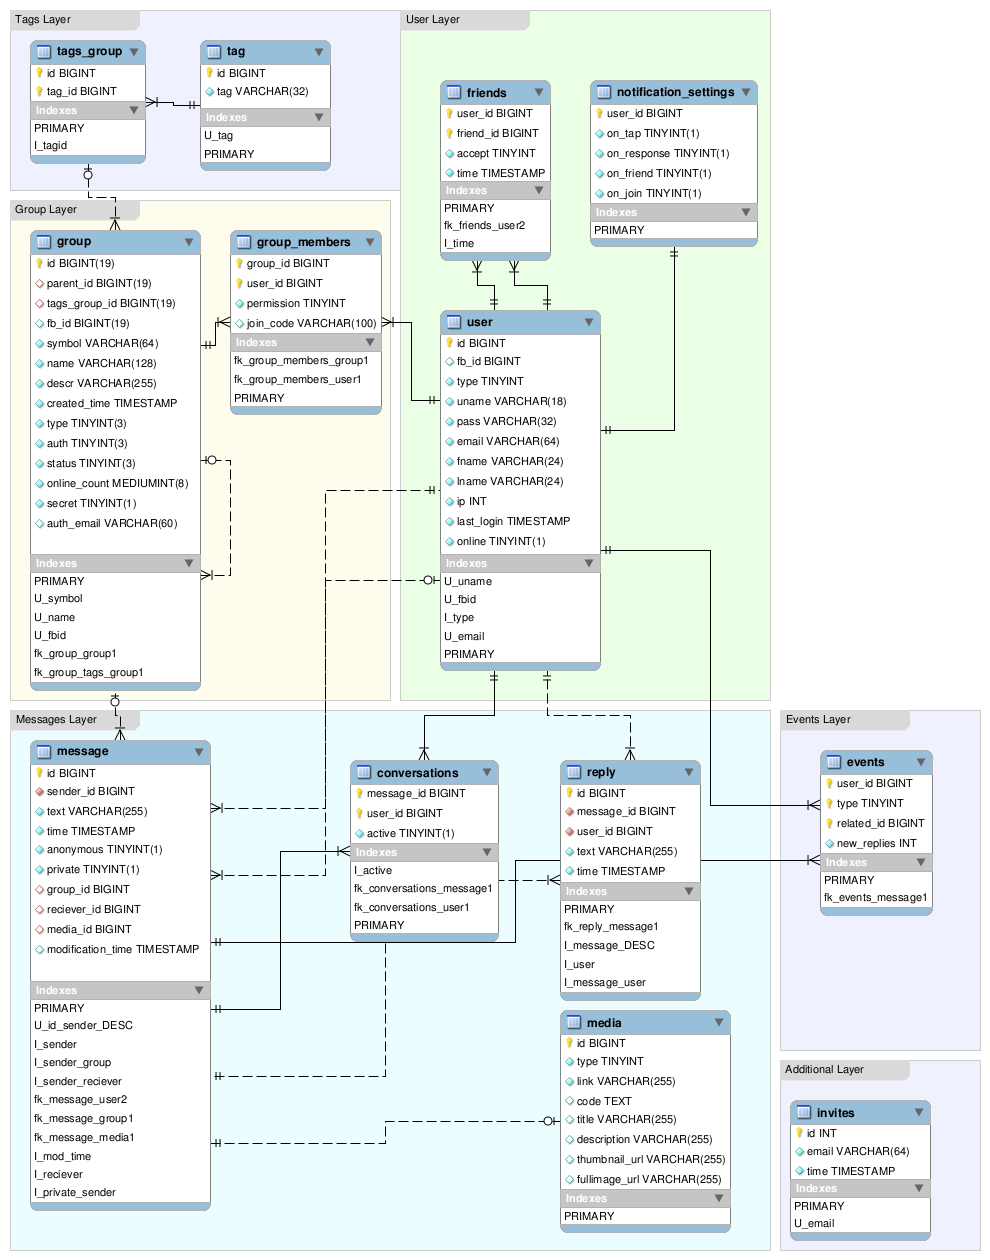
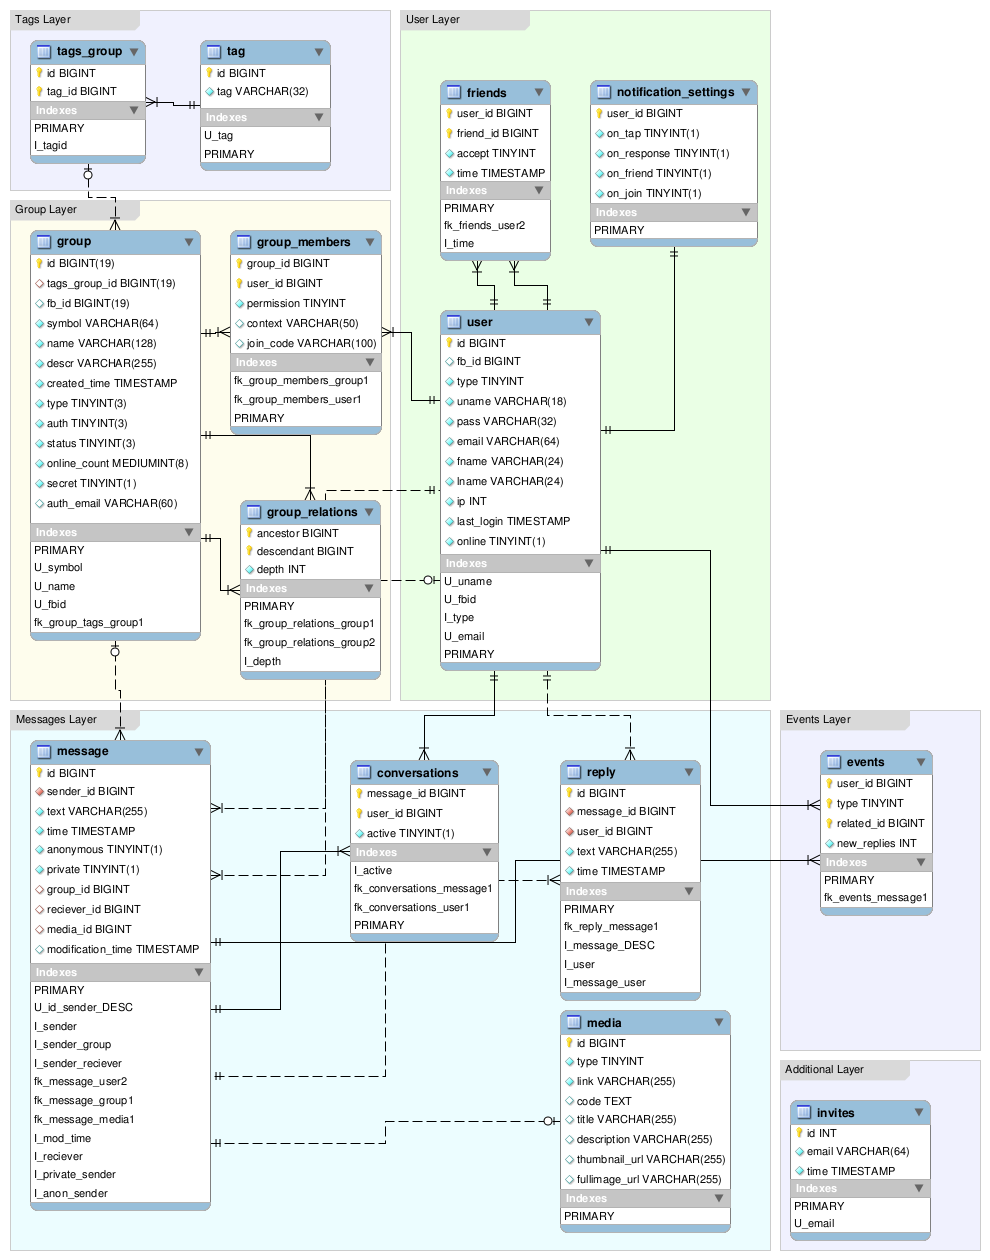
Group tree backend - relations table, searching. Little fix for main seach

Changed region(s): [[0.2121, 0.2476, 0.3939, 0.5571], [0.0303, 0.2167, 0.2121, 0.5571], [0.0303, 0.7429, 0.2121, 0.9595]]

diff --git a/modules/GroupRelations.php b/modules/GroupRelations.php
@@ -1,0 +1,119 @@
+<?php
+
+/*
+    Not actually a model, a useable piece of code related to Groups
+
+    We implementing here Clojure table with cached depth
+
+    See: http://www.slideshare.net/billkarwin/models-for-hierarchical-data?from=fblanding [starting slide 33]
+*/
+class GroupRelations {
+    const table = 'group_relations';
+
+    /*
+        Initialize newly created groups in relations table
+
+        @param Group|GroupList $group
+    */
+    public static function init($group) {
+        if (!($group instanceof Group || $group instanceof GroupsList))
+            throw new InvalidArgumentException('$group should be instance of Group or GroupsList');
+
+        $db = DB::getInstance();
+        if ($group instanceof Group)
+            $group = new GroupsList(array($group->id => $group));
+
+        $db->startTransaction();
+        try {
+            foreach ($group as $g)
+                $db->lazyInsert(self::table,
+                    array('ancestor'   => $group->id,
+                          'descendant' => $group->id,
+                          'depth'      => 0));
+
+            $db->commitLazyInsert(self::table);
+        } catch (SQLException $e) {
+            $db->rollback();
+            throw $e;
+        }
+
+        $db->commit();
+    }
+
+    /*
+        Making parent relations between groups
+    */
+    public static function link(Group $children, Group $parent) {
+        self::unlink($children);
+        self::updateDepth($children, $parent);
+
+        $query = "INSERT INTO `".self::table."` (ancestor, descendant, depth) 
+                  SELECT t2.ancestor AS ancestor, t.descendant, t.depth 
+                    FROM ".self::table." t
+                   INNER
+                    JOIN ".self::table." t2
+                      ON t2.descendant = #pid#
+                   WHERE t.ancestor    = #gid#";
+        
+        DB::getInstance()->query($query, array('pid' => $parent->id, 'gid' => $children->id));
+    }
+
+    /*
+        Delete all links to group and reset depth counter for it childrens
+    */
+    public static function unlink(Group $children) {
+        $parent = self::getClosestParent($children, false);
+        if ($parent->id === null)
+            return;
+
+        self::updateDepth($children, $parent, false);
+
+        $q = "DELETE FROM `".self::table."` WHERE descendant = #gid# AND ancestor <> descendant";
+        DB::getInstance()->query($q, array('gid' => $children->id));
+    }
+
+    /*
+        Reduce or increase depth of node and all it childs
+    */
+    private static function updateDepth(Group $children, Group $parent, $plus = true) {
+        $sign = $plus ? '+' : '-';
+
+        $depth = self::getDepth($parent);
+        $query = "UPDATE `".self::table."` SET depth = depth $sign #depth# $sign 1 WHERE ancestor = #gid#";
+    
+        DB::getInstance()->query($query, array('gid' => $children->id, 'depth' => $depth));
+    }
+
+    /*
+        @return int depth
+    */
+    public static function getDepth(Group $g) {
+        $db = DB::getInstance();
+       
+        $q = "SELECT depth FROM `".self::table."` WHERE ancestor = #gid# AND ancestor = descendant";
+        $res = $db->query($q, array('gid' => $g->id));
+        if (!$res->num_rows())
+            throw new LogicException("Group relations haven't been initialized for `$g->id` group");
+
+        $res = $res->fetch_assoc();
+        return intval($res['depth']);
+    }
+
+    /*
+        @return Group
+    */
+    public static function getClosestParent(Group $g, $info = true) {
+        $depth = getDepth($g);
+        
+        $group = GroupsList::search('parent', 
+                                    array('gid' => $g->id, 'depth' => $depth),
+                                    ($info ? 0 : G_JUST_ID))
+                           ->getFirst();
+
+        if (!$group)
+            return new Group(null);
+
+        return $group;
+    }
+
+};

diff --git a/modules/GroupsList.php b/modules/GroupsList.php
@@ -6,6 +6,10 @@
     It also chaches different results
 */
 class GroupsList extends Collection {
+    public function __construct(array $data) {
+        parent::__construct($data);
+    }
+
     /*
         Uses temporary caches user groups,
         may be handy in a lot types of queries
@@ -139,6 +143,9 @@ class GroupsList extends Collection {
             bySymbol - fetch group by symbol
             byFbIDs  - groups by their Facebook ID
             like     - search on group name by LIKE
+            byUserAndLike - performs like search within followed groups
+            siblings - returns all sibling groups
+            parent   - returns closest parent group
 
         @param array $params
             uid    - user id
@@ -147,6 +154,7 @@ class GroupsList extends Collection {
             fbids  - a list of facebook group (likes, etc) ids
             limit  - how many lines fetch from db
             search - search string for group
+            depth  - used in group_relations queries
 
         @param int   $options
             G_TAPS_COUNT      - fetch number of messages in group
@@ -167,9 +175,10 @@ class GroupsList extends Collection {
             $fields = FuncLib::addPrefix('g.', Group::$fields);
 
         $joins = array(
-            'members'  => 'INNER JOIN group_members gm  ON g.id = gm.group_id',
-            'members2' => 'LEFT  JOIN group_members gm2 ON g.id = gm2.group_id',
-            'messages' => 'LEFT  JOIN message m         ON m.group_id = g.id');
+            'members'   => 'INNER JOIN group_members gm  ON g.id = gm.group_id',
+            'members2'  => 'LEFT  JOIN group_members gm2 ON g.id = gm2.group_id',
+            'messages'  => 'LEFT  JOIN message m         ON m.group_id = g.id',
+            'relations' => 'INNER JOIN group_relations gr ON g.id = gr.descendant');
 
         switch ($type) {
             case 'byUser':
@@ -195,11 +204,20 @@ class GroupsList extends Collection {
                 break;
 
             case 'byUserAndLike':
-                $fields[]      = 'gm.permission';
-                $join[]        = 'members';
-                $where         = 'gm.user_id = #uid# AND g.name LIKE #search#';
-                $user          = Auth::identify();
-                $params['uid'] = $user->id;
+                $fields[] = 'gm.permission';
+                $join[]   = 'members';
+                $where    = 'gm.user_id = #uid# AND g.name LIKE #search#';
+                break;
+
+            case 'siblings':
+                $join[] = 'relations';
+                $where  = 'gr.ancestor = #gid# AND gr.ancestor <> gr.descendant AND gr.depth = #depth#';
+                break;
+
+            case 'parent':
+                $join[] = 'relations';
+                $where  = 'gr.descendant = #gid# AND gr.ancestor <> gr.descendant AND gr.depth = #depth# - 1';
+                $limit  = 'LIMIT 1';
                 break;
         }
 
@@ -357,6 +375,9 @@ class GroupsList extends Collection {
             $db->listInsert($query, $list);
             $fbids = array_map(function ($x) { return $x[0]; }, $list);
             $groups = GroupsList::search('byFbIDs', array('fbids' => $fbids));
+
+            GroupRelations::init($groups); 
+
             $db->commit();
         } catch (SQLException $e) {
             $db->rollback();

diff --git a/modules/Group.php b/modules/Group.php
@@ -24,11 +24,11 @@ class Group extends BaseModel {
         'blocked'   => 1, 'pending' => 2, 'user' => 3,
         'moderator' => 4, 'admin'   => 5, 'not_in' => -1);
 
-    public static $fields = array('id', 'parent_id', 'tags_group_id', 'fb_id',
+    public static $fields = array('id', 'tags_group_id', 'fb_id',
         'symbol', 'name', 'descr', 'created_time', 'type', 'auth', 'status',
         'online_count', 'secret', 'auth_email');
 
-    protected static $intFields = array('id', 'parent_id', 'tags_group_id', 'fb_id',
+    protected static $intFields = array('id', 'tags_group_id', 'fb_id',
         'created_time', 'type', 'auth', 'status', 'online_count', 'secret');
 
     protected static $addit = array('tags', 'members', 'messages_count',
@@ -118,7 +118,7 @@ class Group extends BaseModel {
         
         @returns Group
     */
-    public static function create(User $creator, Group $parent = null, $name, $symbol, $descr, array $tags = null,
+    public static function create(User $creator, $name, $symbol, $descr, array $tags = null,
                                   $type = 'group', $auth = 'open', $status = 'public', $secret = 0, $auth_email = null) {
         
         $db = DB::getInstance();
@@ -128,7 +128,7 @@ class Group extends BaseModel {
         if (!is_int($type)) $type = Group::$types[$type];
         if (!is_int($auth)) $auth = Group::$auths[$auth];
 
-        $data = array('parent_id' => $parent->id, 'symbol' => $symbol, 'name' => $name,
+        $data = array('symbol' => $symbol, 'name' => $name,
             'descr' => $descr, 'type' => $type, 'auth' => $auth,
             'status' => Group::$statuses[$status], 'secret' => $secret, 'auth_email' => $auth_email);
 
@@ -138,19 +138,23 @@ class Group extends BaseModel {
                 array('group_id' => $id, 'user_id' => $creator->id,
                       'permission' => Group::$permissions['admin']));
 
+            $data['id'] = $id;
+            $group = new Group($data);
+
+            //nested transactions here
+            GroupRelations::init($group);
+
+            $db->commit();
         } catch (SQLException $e) {
             $db->rollback();
             throw $e;
         }
-
-        $db->commit();
-        
-        $data['id'] = $id;
-        $group = new Group($data);
+                
         if (!empty($tags)) {
             $group->tags->addTags($tags);
             $group->commit();
         }
+
         return $group;
     }
 

diff --git a/modules/Libs/DB.php b/modules/Libs/DB.php
@@ -31,6 +31,16 @@ class DB {
     */
     private $updates = array();
 
+    /*
+        A list of pending inserts
+
+        array(
+            table => array(
+                array(
+                    column => value
+    */
+    private $inserts = array();
+
     private function __construct() {}
 
     function __destruct() {
@@ -38,6 +48,9 @@ class DB {
             throw new TransactionException('You forgot to commit or rollback transactions');
     }
 
+    /*
+        Sending debug log to browser (making explain queries too)
+    */
     public function flush_log() {
         if (empty($this->queries))
             return;
@@ -254,5 +267,27 @@ class DB {
         $this->query($query, array_merge($columns, array('id' => $id)));
 
         unset($this->updates[$table][$id]);
+    }
+
+    /*
+        You should provide same array keys for each table
+        or it would cauze SQLException
+    */
+    public function lazyInsert($table, array $values) {
+        $this->inserts[$table][] = $values;
+        return $this;
+    }
+
+    public function commitLazyInsert($table) {
+        if (empty($this->inserts[$table]))
+            return;
+
+        $columns = $this->inserts[$table];
+        $fields  = implode(',', array_keys(current($columns)));
+        $query   = "INSERT INTO `$table` ($fields) VALUES #values#";
+
+        $this->listInsert($query, $columns);
+
+        unset($this->inserts[$table]);
     }
 };

diff --git a/AJAX/group/search.php b/AJAX/group/search.php
@@ -6,7 +6,6 @@ CALLS:
 
 class ajax_search extends Base {
     protected $view_output = 'JSON';
-    //protected $need_login = false;
 
     public function __invoke() {
         $search = $_POST['search'];
@@ -15,12 +14,13 @@ class ajax_search extends Base {
         $search = '%'.str_replace(' ', '%', preg_replace('/\s{2,}/', '', $search)).'%';
 
         $this->set(
-            GroupsList::search($type, array('search' => $search, 'limit' => 5, 'uid' => $user->id), G_TAPS_COUNT | G_USERS_COUNT)
+            GroupsList::search($type, array('search' => $search, 'limit' => 5, 'uid' => $this->user->id), G_TAPS_COUNT | G_USERS_COUNT)
                     ->asArrayAll(),
             'groups');
+
         if ($type == 'like') {
             // TODO: fix the keys in asArrayAll response
-            $usersList = UsersList::search('like', array('search' => $search, 'limit' => 5, 'id' => $user->id))->asArrayAll();
+            $usersList = UsersList::search('like', array('search' => $search, 'limit' => 5))->asArrayAll();
             $users = array();
             if (!empty($usersList))
                 foreach ($usersList as $user)

diff --git a/modules/UsersList.php b/modules/UsersList.php
@@ -183,7 +183,7 @@ class UsersList extends Collection {
                 break;
 
             case 'like':
-                $where[] = '(u.uname LIKE #search# OR CONCAT(u.fname, \' \', u.lname) LIKE #search#)';
+                $where[] = "(u.uname LIKE #search# OR CONCAT(u.fname, ' ', u.lname) LIKE #search#)";
                 break;
         }
 

diff --git a/AJAX/group/create.php b/AJAX/group/create.php
@@ -23,7 +23,6 @@ class ajax_create extends Base {
         }
         
         $group = Group::create($this->user,
-                               null,
                                $_POST['title'],
                                $_POST['symbol'],
                                $_POST['descr'],
